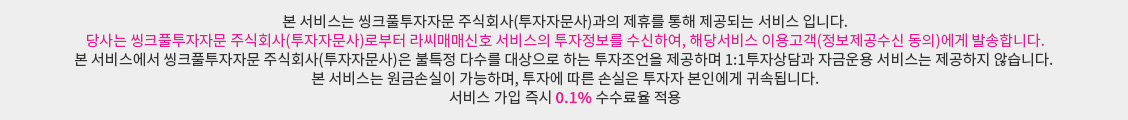
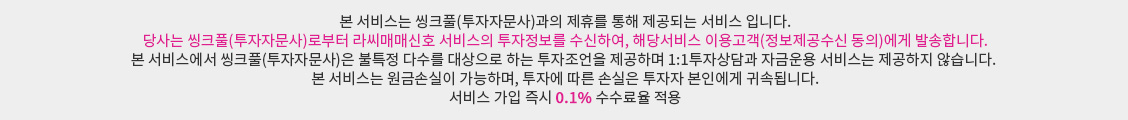
키움 라씨매매신호 씽크풀 상호면 변경, 팝업 수정

Changed region(s): [[0.0621, 0.425, 0.9309, 0.575], [0.0621, 0.275, 0.9309, 0.4], [0.2482, 0.1, 0.7757, 0.25]]

diff --git a/kiwoom_signal/intro.html b/kiwoom_signal/intro.html
@@ -52,9 +52,9 @@
             </div>
 
             <h4 class="main-stxt">
-              본 서비스는 씽크풀투자자문 주식회사(투자자문사)와의 제휴를 통해 제공되는 서비스 입니다.<br>
-              <span>당사는 씽크풀투자자문 주식회사(투자자문사)로부터 라씨매매신호 서비스의 투자정보를 수신하여, 해당서비스 이용고객(정보제공수신 동의)에게 발송합니다.</span><br>
-              본 서비스에서 씽크풀투자자문 주식회사(투자자문사)는 불특정 다수를 대상으로 하는 투자조언을 제공하며 1:1투자상담과 자금운용 서비스는 제공하지 않습니다.<br>
+              본 서비스는 씽크풀(투자자문사)과의 제휴를 통해 제공되는 서비스 입니다.<br>
+              <span>당사는 씽크풀(투자자문사)로부터 라씨매매신호 서비스의 투자정보를 수신하여, 해당서비스 이용고객(정보제공수신 동의)에게 발송합니다.</span><br>
+              본 서비스에서 씽크풀(투자자문사)은 불특정 다수를 대상으로 하는 투자조언을 제공하며 1:1투자상담과 자금운용 서비스는 제공하지 않습니다.<br>
               본 서비스는 원금손실이 가능하며, 투자에 따른 손실은 투자자 본인에게 귀속됩니다.<br>
               서비스 가입 즉시 <strong>0.1%</strong> 수수료율 적용
             </h4>
@@ -351,19 +351,19 @@
                         대주 거래, ELW, K-OTC 수수료율은 당사 기본 주식 수수료율과 동일 합니다
                       </li>
                       <li>
-                        본 서비스는 <span class="up bold">씽크풀투자자문 주식회사(투자자문사)</span>와의 <span class="up bold">제휴</span>를 통해 <span
+                        본 서비스는 <span class="up bold">씽크풀(투자자문사)</span>과의 <span class="up bold">제휴</span>를 통해 <span
                           class="up bold">제공</span>되는 <span class="up bold">서비스</span> 입니다.
                       </li>
                       <li>
-                        당사는 씽크풀투자자문 주식회사(투자자문사)로부터 라씨매매신호 서비스의 투자정보를 수신하여, 
+                        당사는 씽크풀(투자자문사)로부터 라씨매매신호 서비스의 투자정보를 수신하여, 
                         해당 서비스 이용(정보제공수신 동의) 고객에게 발송합니다.
                       </li>
                       <li>
-                        본 서비스에서 씽크풀투자자문 주식회사(투자자문사)는 불특정 다수를 대상으로 하는 투자조언만 가능하며 
+                        본 서비스에서 씽크풀(투자자문사)은 불특정 다수를 대상으로 하는 투자조언만 가능하며 
                         1:1 투자상담과 자금운용 서비스는 제공하지 않습니다.
                       </li>
                       <li>
-                        <span class="up bold">당사 투자권유 서비스가 아니며,</span> 서비스 신청 시 <span class="up bold">씽크풀투자자문 주식회사(투자자문사)</span>의 종목추천 투자 정보가
+                        <span class="up bold">당사 투자권유 서비스가 아니며,</span> 서비스 신청 시 <span class="up bold">씽크풀(투자자문사)</span>의 종목추천 투자 정보가
                         제공됩니다.
                       </li>
                       <li>해당 알고리즘은 KRX 전용 데이터로 분석됩니다.</li>
@@ -542,19 +542,16 @@
           <div class="modal-body">
             <div class="title">알려드립니다!</div>
             <div class="txt">
-              <strong>서비스 제공업체 변경</strong>
-              <br><br>
+              <img src="img/alarm_modal-img.png">
               <p>
-                기존 : 주식회사 씽크풀(유사투자자문)<br>
-                변경 : 씽크풀투자자문 주식회사 (투자자문사)
+                서비스 제공업체 씽크풀이<br>
+                '<strong>유사투자자문사</strong>'에서<br>
+                '<span>투자자문사</span>'로 변경되었습니다.
               </p>
-              <br><br>
-              <span>
-                씽크풀투자자문 주식회사는<br>
-                안정적인 서비스 제공을 위해 최선을 다하겠습니다. <br><br>
-
-                감사합니다.
-              </span>
+            </div>
+            <div class="sub-txt">
+              씽크풀(투자자문사)은 앞으로도 안정적인 서비스 제공을 위해 최선을 다하겠습니다.<br><br>
+              감사합니다.
             </div>
           </div>
           <div class="modal-footer">

diff --git a/kiwoom_signal/intro_pc.html b/kiwoom_signal/intro_pc.html
@@ -178,8 +178,8 @@
 
           <span><em class="c_red bold">- 가입계좌에 거래하는 모든 종목에 대해 0.1% 적용</em><br>(대주거래 : 온라인 0.1%, 오프라인 0.3%)</span>
           <span class="c_red bold">- ELW, K-OTC 수수료율은 당사 기본 주식 수수료율과 동일 합니다.</span>
-          <span class="bold">- 본 서비스는 <em class="c_red bold">씽크풀투자자문 주식회사(투자자문사)</em>와의 <em class="c_red bold">제휴</em>를 통해 <em class="c_red bold">제공</em>되는 <em class="c_red bold">서비스</em>입니다.</span>
-          <span class="bold">- 당사 투자권유 서비스가 아니며, 서비스 신청 시 씽크풀투자자문 주식회사(투자자문사)의 투자정보가 제공됩니다.</span>
+          <span class="bold">- 본 서비스는 <em class="c_red bold">씽크풀(투자자문사)</em>과의 <em class="c_red bold">제휴</em>를 통해 <em class="c_red bold">제공</em>되는 <em class="c_red bold">서비스</em>입니다.</span>
+          <span class="bold">- 당사 투자권유 서비스가 아니며, 서비스 신청 시 씽크풀(투자자문사)의 투자정보가 제공됩니다.</span>
           <span class="bold">- 라씨 매매신호는 투자정보를 제공하는 서비스로, 투자에 참고하셔서 활용하시기 바라며, <em class="c_red">투자에 따른 손실은 투자자 본인에게
               귀속</em> 됩니다.</span>
           <span class="bold"><em class="c_red">- 본 서비스 가입 시 온라인 수수료는 0.1%</em>로 기타 자세한 사항은 <em class="c_red">홈페이지 &gt;
@@ -197,18 +197,16 @@
           <div class="modal-body">
             <div class="title">알려드립니다!</div>
             <div class="txt">
-              <strong>서비스 제공업체 변경</strong>
-              <br><br>
+              <img src="img/alarm_modal-img.png">
               <p>
-                기존 : 주식회사 씽크풀(유사투자자문)<br>
-                변경 : 씽크풀투자자문 주식회사 (투자자문사)<br><br>
+                서비스 제공업체 씽크풀이<br>
+                '<strong>유사투자자문사</strong>'에서<br>
+                '<span>투자자문사</span>'로 변경되었습니다.
               </p>
-              <span>
-                씽크풀투자자문 주식회사는 안정적인 서비스 제공을 위해<br>
-                최선을 다하겠습니다. <br><br>
-
-                감사합니다.
-              </span>
+            </div>
+            <div class="sub-txt">
+              씽크풀(투자자문사)은 앞으로도 안정적인 서비스 제공을 위해 최선을 다하겠습니다.<br><br>
+              감사합니다.
             </div>
           </div>
           <div class="modal-footer">

diff --git a/kiwoom_signal/css/intro.css b/kiwoom_signal/css/intro.css
@@ -964,22 +964,33 @@ button.close-btn img{
 
 /* 자문사 전환 팝업 */
 .alarmModal .modal-dialog{
-  max-width: 100%;
   width: 100%;
   display: flex;
   justify-content: center;
   align-items: center;
+}
+
+.alarmModal.mobile .modal-dialog{
   margin: 0;
 }
 
 .alarmModal .modal-content{
+  width: 440px;
+  border-radius: 0;
+  border: none;
+}
+
+.alarmModal.mobile .modal-content{
   width: 328px;
   border-radius: 16px;
-  border: none;
 }
 
 .alarmModal .modal-body{
   width: 100%;
+  padding: 25px 30px;
+}
+
+.alarmModal.mobile .modal-body{
   padding: 25px 20px;
 }
 
@@ -987,36 +998,65 @@ button.close-btn img{
   width: 100%;
   text-align: center;
   font-weight: 400;
-  font-size: 22px;
-  line-height: 28px;
+  font-size: 26px;
+  line-height: 33px;
   color: #333;
   padding-bottom: 20px;
   border-bottom: 1px solid #D0D0D0;
   margin-bottom: 25px;
 }
 
-.alarmModal .modal-body .txt{
-  color: #333;
+.alarmModal.mobile .modal-body .title{
+  font-size: 22px;
+  line-height: 28px;
 }
 
-.alarmModal .modal-body .txt strong{
-  font-weight: 500;
-  font-size: 16px;
-  line-height: 20px;  
+.alarmModal .modal-body .txt{
+  display: flex;
+  justify-content: center;
+  align-items: center;
+  gap: 25px;
+  margin-bottom: 20px;
+}
+
+.alarmModal .modal-body .txt img{
+  width: 90px;
+}
+
+.alarmModal.mobile .modal-body .txt img{
+  width: 65px;
 }
 
 .alarmModal .modal-body .txt p{
-  margin: 0;
   font-weight: 400;
+  font-size: 18px;
+  line-height: 26px;
+}
+
+.alarmModal.mobile .modal-body .txt p{
   font-size: 14px;
   line-height: 20px;
 }
 
-.alarmModal .modal-body .txt span{
+.alarmModal .modal-body .txt p strong{
+  font-weight: 700;
+}
+
+.alarmModal .modal-body .txt p span{
+  color: #4F3FC6;
+  font-weight: 700;
+}
+
+.alarmModal .modal-body .sub-txt{
   font-weight: 400;
+  font-size: 16px;
+  line-height: 22px;
+  color: #333;
+}
+
+.alarmModal.mobile .modal-body .sub-txt{
   font-size: 14px;
   line-height: 20px;
-  letter-spacing: -0.1px;
 }
 
 .alarmModal .modal-footer{
@@ -1050,7 +1090,7 @@ button.close-btn img{
 }
 
 .alarmModal .modal-footer .btn-group button.fill{
-  background: #7675F7;
+  background: #4F3FC6;
   font-weight: 700;
   color: #fff;
 }

diff --git a/kiwoom_signal/css/common.css b/kiwoom_signal/css/common.css
@@ -353,12 +353,10 @@ p.guide_p{
 
 /* 자문사 전환 팝업 */
 .alarmModal .modal-dialog{
-  max-width: 100%;
   width: 100%;
   display: flex;
   justify-content: center;
   align-items: center;
-  margin: 0;
 }
 
 .alarmModal .modal-content{
@@ -399,27 +397,51 @@ p.guide_p{
 }
 
 .alarmModal .modal-body .txt{
-  padding: 0px 10px;  
-  color: #333;
+  display: flex;
+  justify-content: center;
+  align-items: center;
+  gap: 25px;
+  margin-bottom: 20px;
 }
 
-.alarmModal .modal-body .txt strong{
-  font-weight: 500;
-  font-size: 18px;
-  line-height: 20px;  
+.alarmModal .modal-body .txt img{
+  width: 90px;
+}
+
+.alarmModal.mobile .modal-body .txt img{
+  width: 65px;
 }
 
 .alarmModal .modal-body .txt p{
-  margin: 0;
   font-weight: 400;
-  font-size: 16px;
+  font-size: 18px;
+  line-height: 26px;
+}
+
+.alarmModal.mobile .modal-body .txt p{
+  font-size: 14px;
   line-height: 20px;
 }
 
-.alarmModal .modal-body .txt span{
+.alarmModal .modal-body .txt p strong{
+  font-weight: 700;
+}
+
+.alarmModal .modal-body .txt p span{
+  color: #4F3FC6;
+  font-weight: 700;
+}
+
+.alarmModal .modal-body .sub-txt{
   font-weight: 400;
+  font-size: 16px;
+  line-height: 22px;
+  color: #333;
+}
+
+.alarmModal.mobile .modal-body .sub-txt{
   font-size: 14px;
-  line-height: 20px;  
+  line-height: 20px;
 }
 
 .alarmModal .modal-footer{
@@ -453,7 +475,7 @@ p.guide_p{
 }
 
 .alarmModal .modal-footer .btn-group button.fill{
-  background: #7675F7;
+  background: #4F3FC6;
   font-weight: 700;
   color: #fff;
 }
